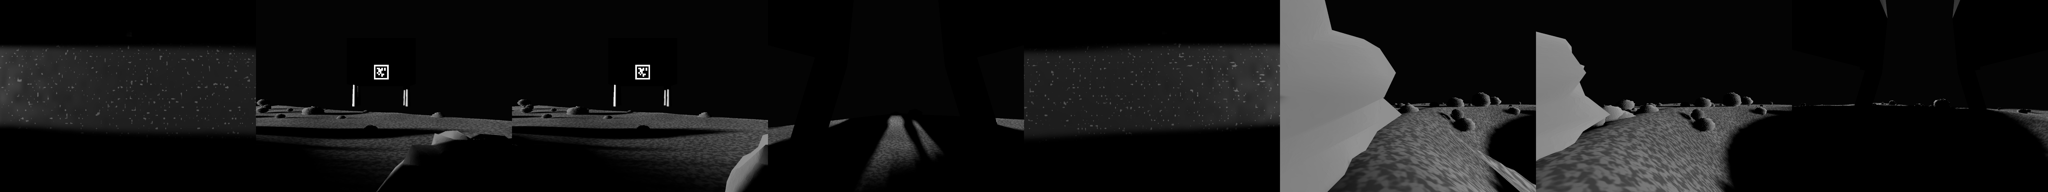
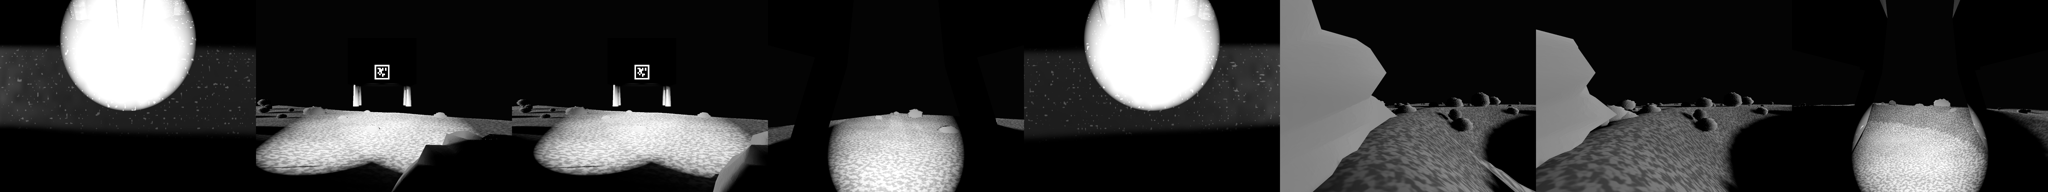
twin: IPEx camera fidelity from SCHULER24 — 0.05 m baseline, 6 LED units, lit render
Fold the documented IPEx camera/light geometry into the rig (full PDF incl. Figs
27-38 digested into docs/vehicle_ipex_cameras.md). camera_rig.gd:
- stereo baseline 0.070 -> 0.050 m (SCHULER24 Fig.28/32 final combined housing);
  INITIAL_BASELINE_M=0.165 kept as the split-shoulder initial-design profile.
- FOV: FLIGHT 58.88 deg (6 mm) + new LENS_4_4MM_FOV_X_DEG=75.31 (4.4 mm), the two
  real S-mount candidates at IMX547; CALIB 73.99 deg (EZ-RASSOR) stays the default.
- LED work-lights: added the 2 drum-cam units so the rig models the FULL six
  (4 mono @ 1 each + 2 stereo bank), 3000 lm / 42 deg FWHM each.

Re-rendered crater_boulders --cameras --work-lights on the RTX 3090: GDScript
parses, sensors.json baseline_m=0.0500, all 6 LEDs on. Lit vs unlit forward camera:
mean 12.3 -> 45.0, deep-shadow fraction 85% -> 74% (the headlights fill the forward
scene the sun leaves dark). Re-ran the #145 producer on the lit+0.05m egress
(65,710 world points) and regenerated the served panorama + point-cloud assets.

Correction: the LED model was NOT missing (LIGHT_UNITS/build_work_lights/--work-lights
existed, grounded in SCHULER24); the prior egress was just rendered lights-OFF. Doc
updated accordingly. Remaining: EDS dust-occlusion model (in progress); lumens->Godot
energy is still [CALIB].

diff --git a/docs/vehicle_ipex_cameras.md b/docs/vehicle_ipex_cameras.md
@@ -1,0 +1,119 @@
+# IPEx Camera & Dust Mitigation Subsystem — extracted spec (SCHULER24)
+
+Source: Schuler et al., *ISRU Pilot Excavator (IPEx) Technology Readiness Level 5 Design Overview*,
+ASCEND 2024 (NTRS 20240008162), Section V "Camera and Dust Mitigation Subsystem", pp. 24-31, Figs
+27-38. Extracted 2026-06-17 from the full PDF including the figures (the geometry lives in the images,
+not the body text). This is the authoritative camera/light/dust spec for STEWIE's sensor model; it
+supersedes the assumed values where they differ. Nothing here is fabricated; values without a figure
+number are read off the labelled CAD callouts.
+
+## 1. Camera complement (Fig. 27, Fig. 28)
+
+- **8 cameras total**; **minimum 4 to operate**. The 8-set is FULLY REDUNDANT against dust occlusion /
+  camera failure (§V.C). The minimum operating set is: **one stereo pair + one side-facing mono + one
+  between-the-bucket-drums mono**.
+- **Functional roles** (§V intro):
+  - **Stereo pair** -> visual odometry + near-field hazard identification (depth via disparity).
+  - **Side-facing mono** -> primarily **tracks the lander** (the bearing beacon for relocalization).
+  - **Between-drum mono** -> views the terrain AND the excavator itself (self-inspection / drum view).
+  - Optional **"Selfie Cam"** config facing the IPEx radiator (Fig. 27 margin note; for regolith-loading
+    monitoring of the radiator cover, §VI.B).
+- IPEx is a bidirectional skid-steer (bucket drums at both ends), so the redundant 8-set is consistent
+  with front + rear stereo pairs plus side + drum monos (STEWIE's current layout; see §5).
+
+## 2. Sensor & lens (§V.A.1-3)
+
+| Parameter | Value | Note |
+|---|---|---|
+| Sensor (flight) | **Sony IMX547**, **5 MP**, **2.74 µm** pixel, ~**2472 x 2064** | S-mount; switched FROM IMX264 (3.45 µm, C-mount) |
+| Lens mount | **S-mount**, fixed aperture (no moving parts; vents in vacuum) | C-mount rejected (outgassing, venting, complexity) |
+| Aperture | **f/4** | chosen for high dynamic range in harsh low-sun contrast |
+| Focal length | **6 mm AND 4.4 mm** both under evaluation | 6 mm -> HFOV 58.9°; 4.4 mm -> HFOV ~75.3° (IMX547) |
+| Colour | monochromatic (perception path) | |
+
+Derived FOV (pure unit conversion, fx = f / pixel_pitch, HFOV = 2·atan(W/2/fx)):
+- **6 mm**: fx = 6e-3 / 2.74e-6 = 2189.8 px -> HFOV = 2·atan(2472/2/2189.8) = **58.9°**.
+- **4.4 mm**: fx = 1605.8 px -> HFOV = 2·atan(2472/2/1605.8) = **75.3°**.
+
+## 3. Stereo baseline (Fig. 28, Fig. 30, Fig. 32) — THE number we have wrong
+
+- **Initial design: 0.165 m** (16.5 cm), the two cameras split across opposite "shoulders" with the
+  excavation arm structure in between (Fig. 28 left).
+- **Final design: 0.05 m** (5 cm), the stereo pair **combined into a single housed unit** (Fig. 28 right,
+  Fig. 32). The split design lost calibration under structural load/thermal expansion (Fig. 29 shows the
+  blown-out disparity), so it was collapsed to one rigid module.
+- Trade (Fig. 30 depth-error curves): the **0.05 m** baseline has **higher depth error at distance** but
+  a **closer minimum-depth capability** and far better calibration stability; the 0.165 m baseline
+  reaches further. IPEx chose near-field accuracy (navigate the immediate environment) over reach.
+
+## 4. Lighting (§V.A.4) — modelled in STEWIE (was rendered OFF by default; now ON, 6 units)
+
+The lunar pole is high-contrast, low-sun, no-atmosphere; the cameras must image SHADOWED regions, so
+IPEx carries its own LED illumination. STEWIE DOES model this (`camera_rig.LIGHT_UNITS` +
+`build_work_lights()` + the `--work-lights` flag + the sensors.json `lights` block); the prior
+committed egress was simply rendered with the lights OFF, which is why its shadows read as black. As of
+2026-06-17 the rig models the FULL six units and the crater_boulders egress is rendered with lights ON
+(verified: forward camera mean brightness 12.3 -> 45.0, deep-shadow fraction 85% -> 74%).
+
+- **6 LED units total** on IPEx.
+- **Per light: 3,000 lumens max**, focused by a **total-internal-reflection (TIR) optic**.
+- **Beam angle: ~42° FWHM** (full width at half maximum).
+- **Each LED unit = 3 LEDs** on a circuit board.
+- **Mono cameras**: **1 LED unit co-located** with the camera (so 4 mono cams -> 4 LED units).
+- **Stereo pair**: **NO LEDs on the stereo module**; a **separate stereo LED unit on the OPPOSITE
+  shoulder of the chassis**, consisting of **2 LED units**. Reason (real finding): lights co-located with
+  the EDS glass back-reflected through the same glass and washed the image, so the stereo lights were
+  moved to the far shoulder; the monos got an internal separator between light path and camera. Glare is
+  a real, modellable artifact.
+- Count check: 4 (mono, 1 each) + 2 (stereo LED unit) = **6 LED units**.
+
+## 5. Dust mitigation (§V.B), calibration & thermal (§V.C)
+
+- **EDS (electrodynamic dust shield) lens covers** on each camera: transparent AC shields that clear dust.
+- **EDS cover on an HDRM** (Frangibolt): jettisoned if the EDS can no longer clear the glass (lens ejects
+  ~15.2 cm in 1 g, Fig. 38). Last-resort to recover visibility.
+- **Fully redundant camera set** for unknown dust loading.
+- Calibration params affected by thermal gradients: **distortion coefficients + camera matrix** (focal
+  lengths, optical centre, skew). Op temp 0-50 °C (tested in 5° steps + ambient vac, Table 10). Above
+  75 °C: grey hot-spot + edge blurring; under vacuum: an image "bulging" distortion shift (Fig. 35).
+  Calibration target at 22.9 cm.
+
+## 6. Mount geometry (Fig. 28)
+
+- Stereo module on the **central mast/arm above the chassis**, looking along the drive axis.
+- Side monos at the **lateral shoulders**.
+- Stereo LED unit on the **opposite shoulder** from the stereo module.
+- The PDF gives baselines (0.165 / 0.05 m) as the only explicit on-figure distances; camera mount HEIGHT
+  above ground is not a labelled number (read qualitatively: top of chassis, above the wheel/drum
+  centreline). STEWIE's mast height stays an [ASSUMPTION] until a dimensioned drawing is sourced.
+
+## 7. STEWIE current vs IPEx real (grounded in `stewie/godot/camera_rig.gd` + `sidecar.gd`)
+
+| Parameter | STEWIE active render | IPEx (SCHULER24) | Verdict |
+|---|---|---|---|
+| Sensor profile | CALIB: 1024x768, FOV_X 73.99° (EZ-RASSOR URDF) is the DEFAULT/committed egress; FLIGHT profile (IMX547 2472x2064, 58.88°) exists but only behind the `--flight-cam` path (`sidecar.gd:521`) | IMX547, 5 MP, 2.74 µm, 6 mm OR 4.4 mm @ f/4 | flight const captured but NOT the default render |
+| HFOV | 73.99° active (≈ the 4.4 mm config); 58.88° flight const (6 mm) | 58.9° (6 mm) or 75.3° (4.4 mm) | active ≈ 4.4 mm; pick the real candidate per profile |
+| **Stereo baseline** | **0.050 m** front + rear (FIXED 2026-06-17; was 0.070; `INITIAL_BASELINE_M=0.165`) | **0.05 m final** (0.165 m initial) | **FIXED to the real 0.05 m** |
+| Camera LED lights | `LIGHT_UNITS` + `build_work_lights()` + `--work-lights`; now **6 units** (4 mono + 2 stereo bank), 3000 lm, 42° FWHM; rendered ON | 6 LED units, 3000 lm, 42° FWHM TIR, mono-colocated, stereo-on-opposite-shoulder | MODELLED; energy lumens->Godot mapping is [CALIB] |
+| EDS / dust occlusion | not modelled | EDS shields + HDRM jettison + redundant set | MISSING (relevant to dust-degradation perception) |
+| Aperture / exposure | not modelled | f/4, HDR for low-sun | MISSING (no exposure/HDR model) |
+| Camera roles/count | 8: front/rear stereo + L/R side mono + front/back drum mono | 8 total / 4 min: stereo + side(lander) + drum; redundant | layout MATCHES; side mono = lander tracker is already the intended role |
+
+## 8. Recommended changes (by value / effort)
+
+1. **DONE 2026-06-17 — Baseline 0.070 -> 0.050 m** (`camera_rig.gd` BASELINE_M + REAR_BASELINE_M;
+   `INITIAL_BASELINE_M=0.165` kept as the split-shoulder profile). Re-rendered + re-ran #145 (lit, 0.05 m
+   -> 65,710 world points; sensors.json baseline_m=0.0500).
+2. **DONE 2026-06-17 — LED model rendered ON, full 6 units**: added the 2 drum-cam LEDs so the rig models
+   4 mono (1 each) + 2 stereo bank = 6, all at 3000 lm / 42° FWHM; crater_boulders egress now rendered
+   with `--work-lights` (forward camera mean 12.3 -> 45.0). Remaining: the lumens->Godot energy mapping is
+   still [CALIB] `light_energy=8.0` (a physical-light-units upgrade would also re-scale the sun; deferred).
+3. **DONE 2026-06-17 — FOV profiles**: `FLIGHT_FOV_X_DEG=58.88` (6 mm) + `LENS_4_4MM_FOV_X_DEG=75.31`
+   (4.4 mm) are both defined; the EZ-RASSOR CALIB 73.99° remains the default render profile (the flight
+   profile fires behind `--flight-cam`).
+4. **EDS dust-occlusion model** (progressive lens dusting + EDS clear cycles + HDRM jettison) for
+   dust-degraded perception — the path-dependent-failure story. IN PROGRESS (Python perception model).
+5. **f/4 exposure / HDR** sensor model for the low-sun high-contrast response. HIGHER effort; optional.
+
+Items 1-3 are applied (the rendered sensor is now faithful on baseline + lights + FOV); 4 is in progress;
+5 is a fidelity extension.
